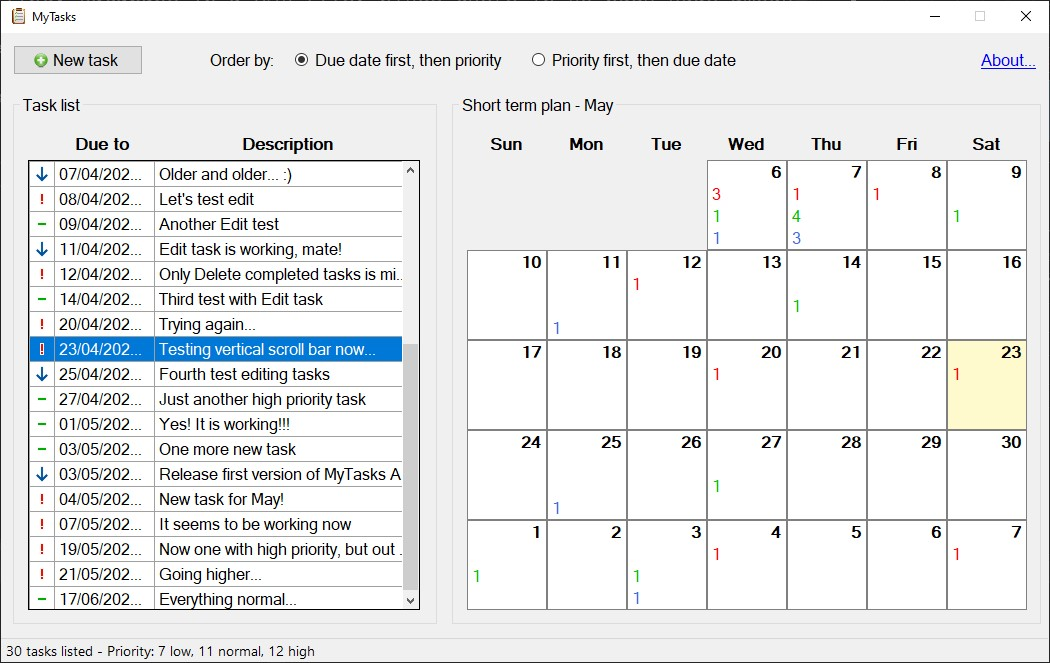
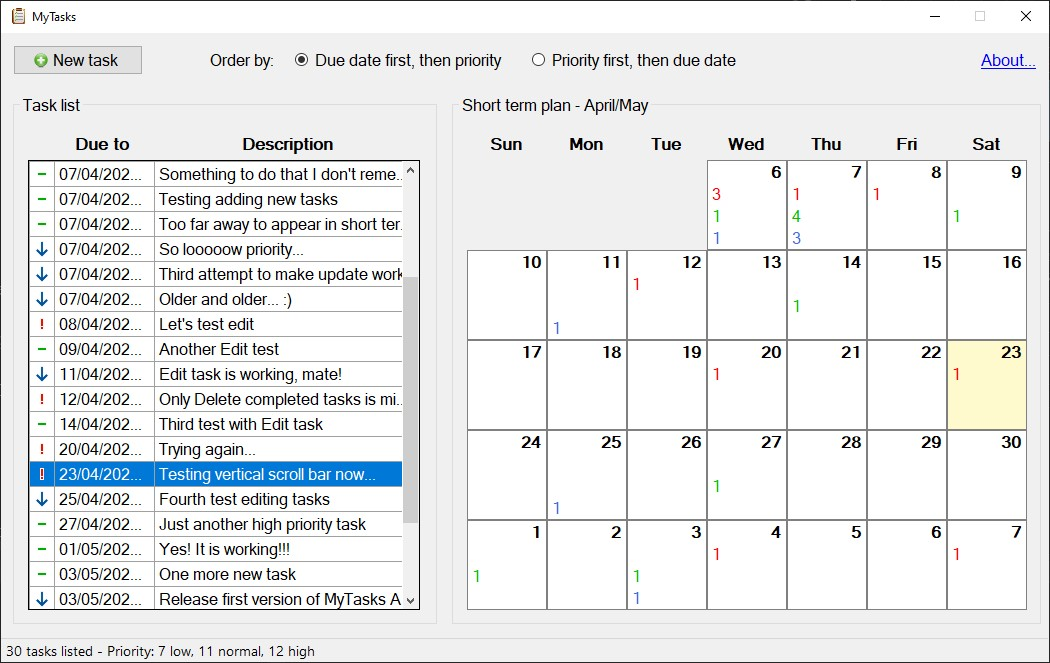
Minor correction in ShortTermPeriod method. Example.jpg updated.

Changed region(s): [[0.0305, 0.2413, 0.3962, 0.9351], [0.5486, 0.1508, 0.64, 0.181], [0.0305, 0.2413, 0.061, 0.2715]]

diff --git a/MyTasks/Main.cs b/MyTasks/Main.cs
@@ -171,6 +171,7 @@ namespace MyTasks
             UpdateCalendar(shortTerm, date);
 
             // Dates needed to properly update groupShortTermPlan.Text
+            DateTime firstDate = date;
             DateTime lastDate;
             
             for (int row = 0; row <= 4; row++)
@@ -212,7 +213,7 @@ namespace MyTasks
 
             // Update groupShortTermPlan Text property
             lastDate = shortTerm[6, 4].Date;            
-            groupShortTermPlan.Text = "Short term plan - " + ShortTermPeriod(date, lastDate);
+            groupShortTermPlan.Text = "Short term plan - " + ShortTermPeriod(firstDate, lastDate);
         }
 
         private string ShortTermPeriod(DateTime firstDay, DateTime lastDay)
